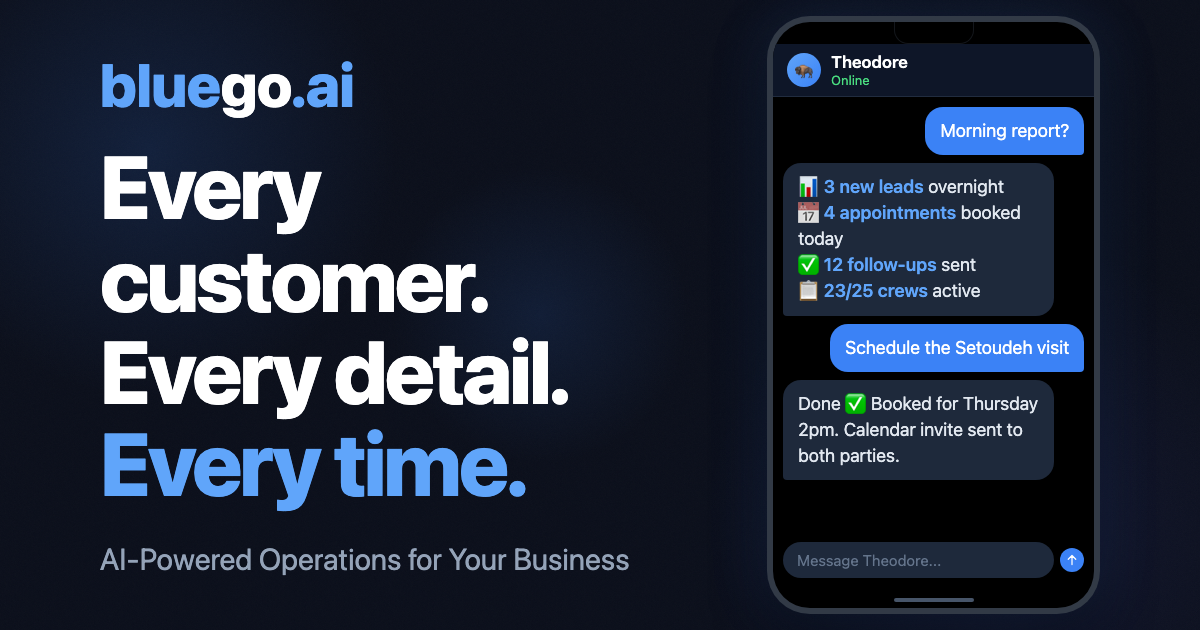
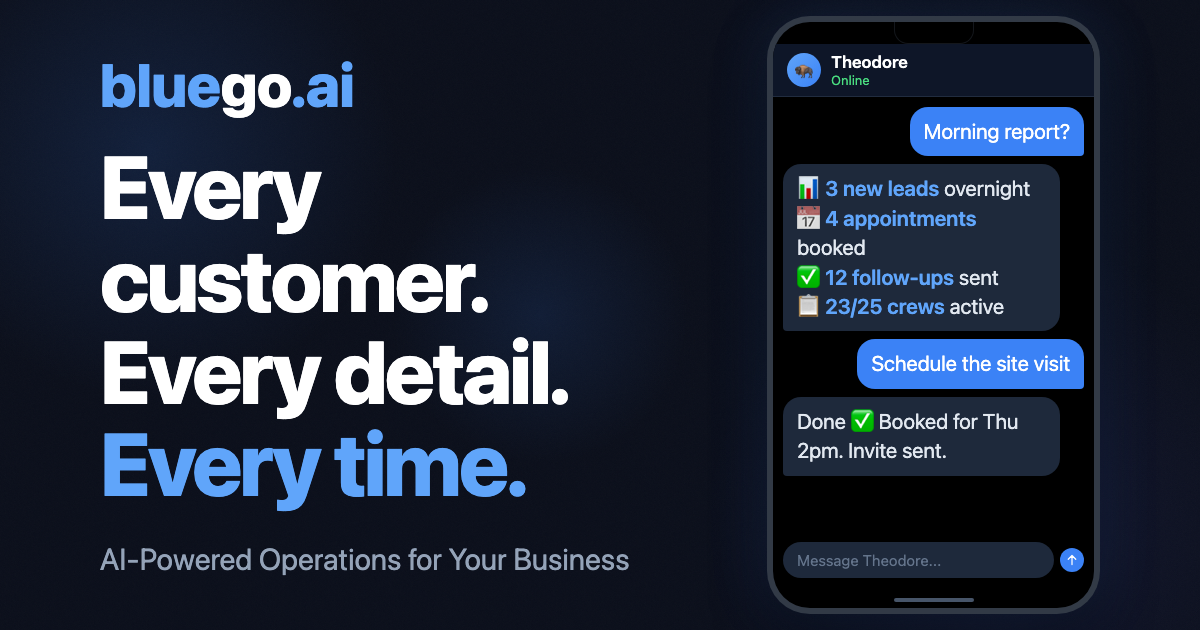
OG: even bigger phone text, trimmed to fit

Changed region(s): [[0.6475, 0.181, 0.925, 0.7841]]

diff --git a/og-generator.html b/og-generator.html
@@ -156,11 +156,11 @@
   }
 
   .msg {
-    max-width: 90%;
-    padding: 11px 15px;
+    max-width: 92%;
+    padding: 10px 14px;
     border-radius: 18px;
-    font-size: 18px;
-    line-height: 1.45;
+    font-size: 21px;
+    line-height: 1.4;
   }
 
   .msg.user {
@@ -264,13 +264,13 @@
           <div class="msg user">Morning report?</div>
           <div class="msg assistant">
             📊 <span class="bold">3 new leads</span> overnight<br>
-            📅 <span class="bold">4 appointments</span> booked today<br>
+            📅 <span class="bold">4 appointments</span> booked<br>
             ✅ <span class="bold">12 follow-ups</span> sent<br>
             📋 <span class="bold">23/25 crews</span> active
           </div>
-          <div class="msg user">Schedule the Setoudeh visit</div>
+          <div class="msg user">Schedule the site visit</div>
           <div class="msg assistant">
-            Done ✅ Booked for Thursday 2pm. Calendar invite sent to both parties.
+            Done ✅ Booked for Thu 2pm. Invite sent.
           </div>
         </div>
         <div class="phone-input">
